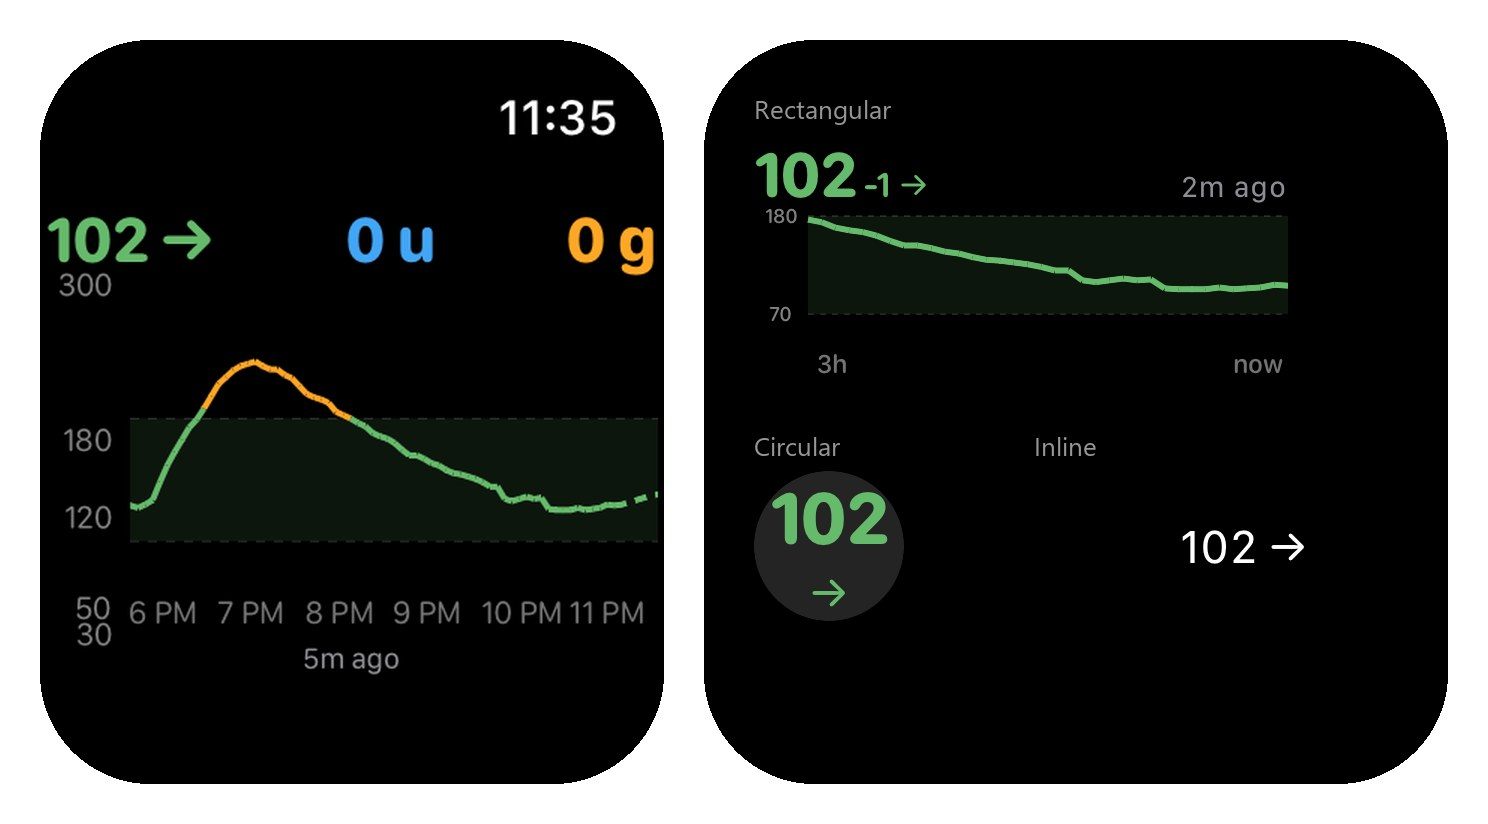
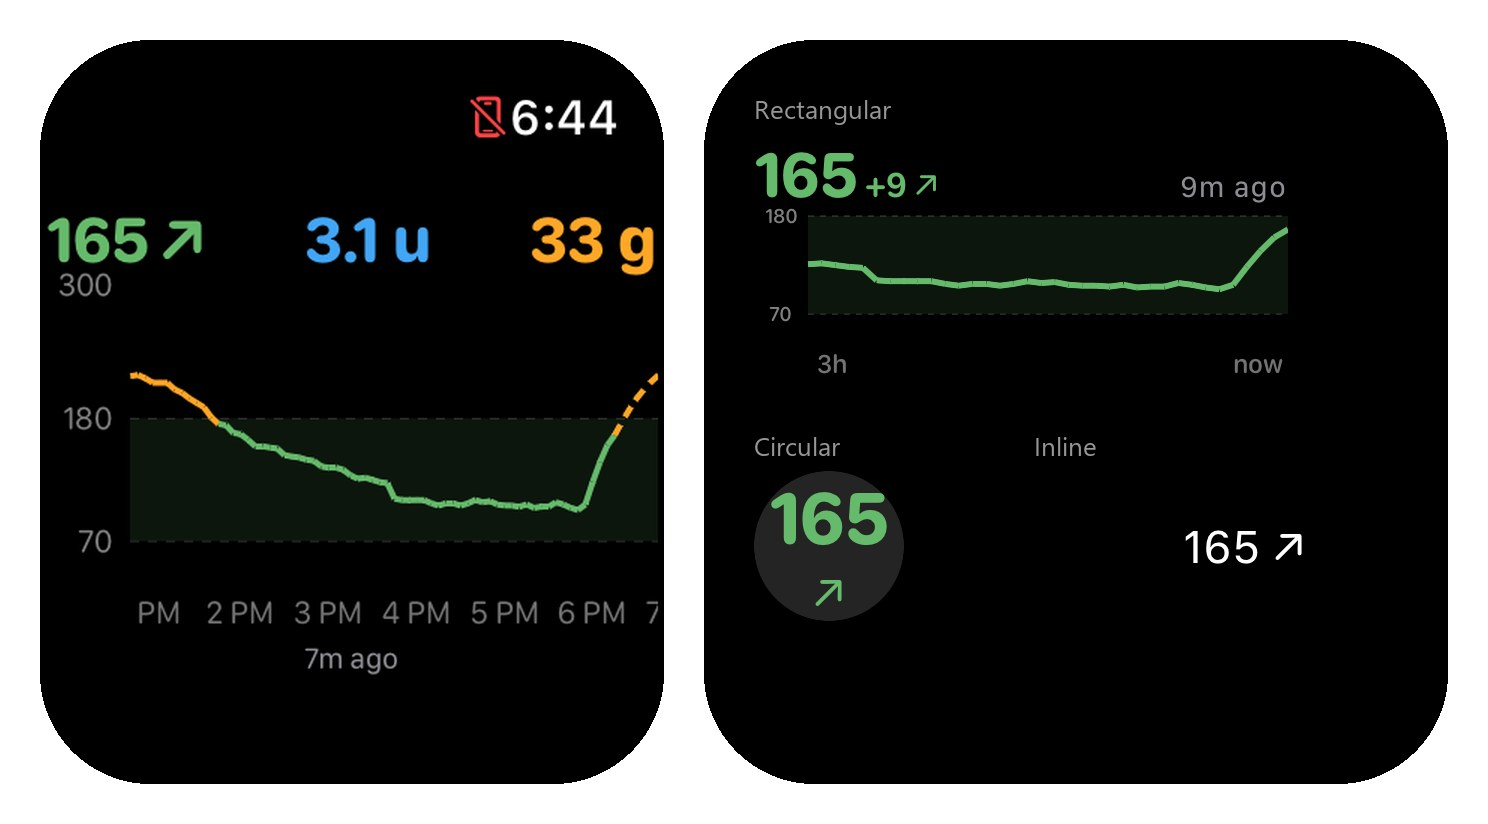
Fix overlapping y-axis labels on the watch trend chart
Label only the 70/180 range edges plus the top (from 250 up), and give the
fixed y-axis column the same x-axis label row as the scrolling chart so both
plot areas share a height and the labels line up with the data. Refresh the
README watch screenshot.

diff --git a/ios/ClearSugarWatch/Views/WatchTrendChart.swift b/ios/ClearSugarWatch/Views/WatchTrendChart.swift
@@ -37,9 +37,11 @@ struct WatchTrendChart: View {
         return 350
     }
 
+    // Label only the range edges plus the top. 200 sits too close to 180 to
+    // label on a watch-height chart, so the top gets a label from 250 up.
     private var yAxisValues: [Double] {
-        var vals: [Double] = [30, 50, 120, 180]
-        if dynamicMax > 180 { vals.append(dynamicMax) }
+        var vals: [Double] = [rangeLow, rangeHigh]
+        if dynamicMax >= 250 { vals.append(dynamicMax) }
         return vals
     }
 
@@ -90,7 +92,15 @@ struct WatchTrendChart: View {
             .opacity(0)
         }
         .chartYScale(domain: fixedMin...dynamicMax)
-        .chartXAxis(.hidden)
+        // Reserve the same label row as the scrollable chart's x-axis so both
+        // plot areas share a height and the y labels line up with the data.
+        .chartXAxis {
+            AxisMarks(values: [0]) { _ in
+                AxisValueLabel("0")
+                    .font(.system(size: 11, design: .rounded))
+                    .foregroundStyle(.clear)
+            }
+        }
         .chartYAxis {
             AxisMarks(position: .leading, values: yAxisValues) { value in
                 AxisValueLabel {
